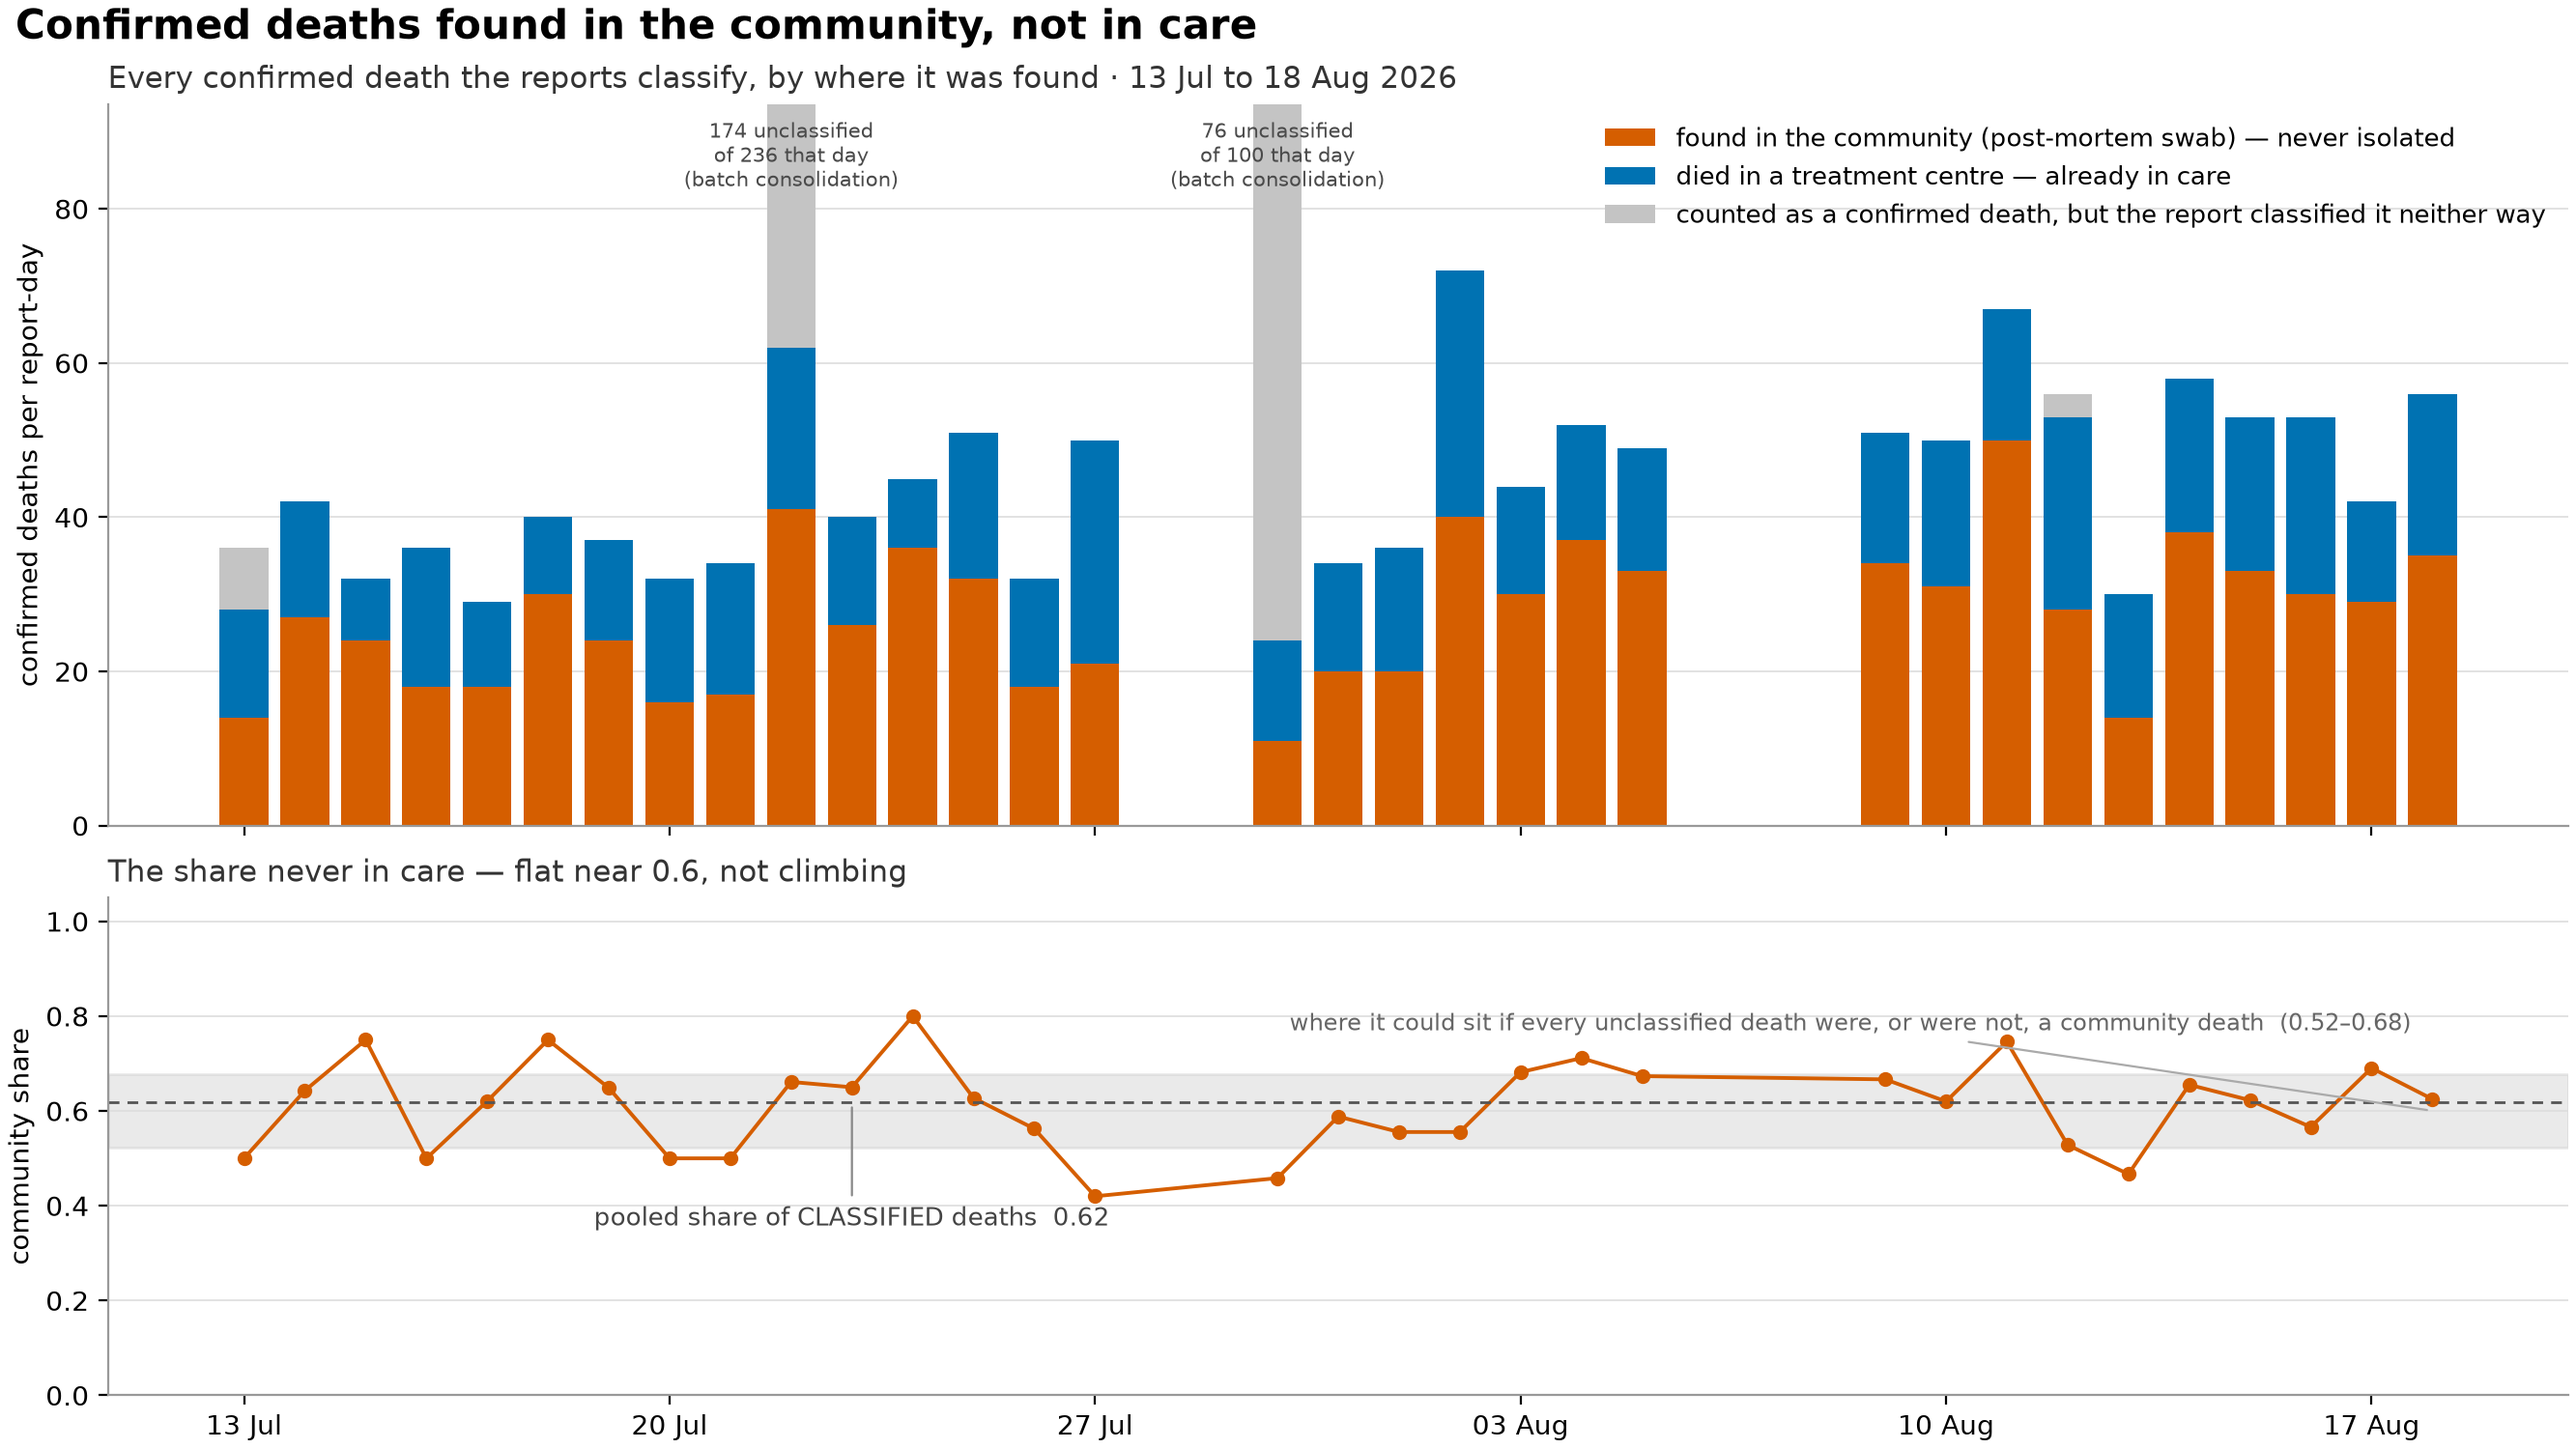
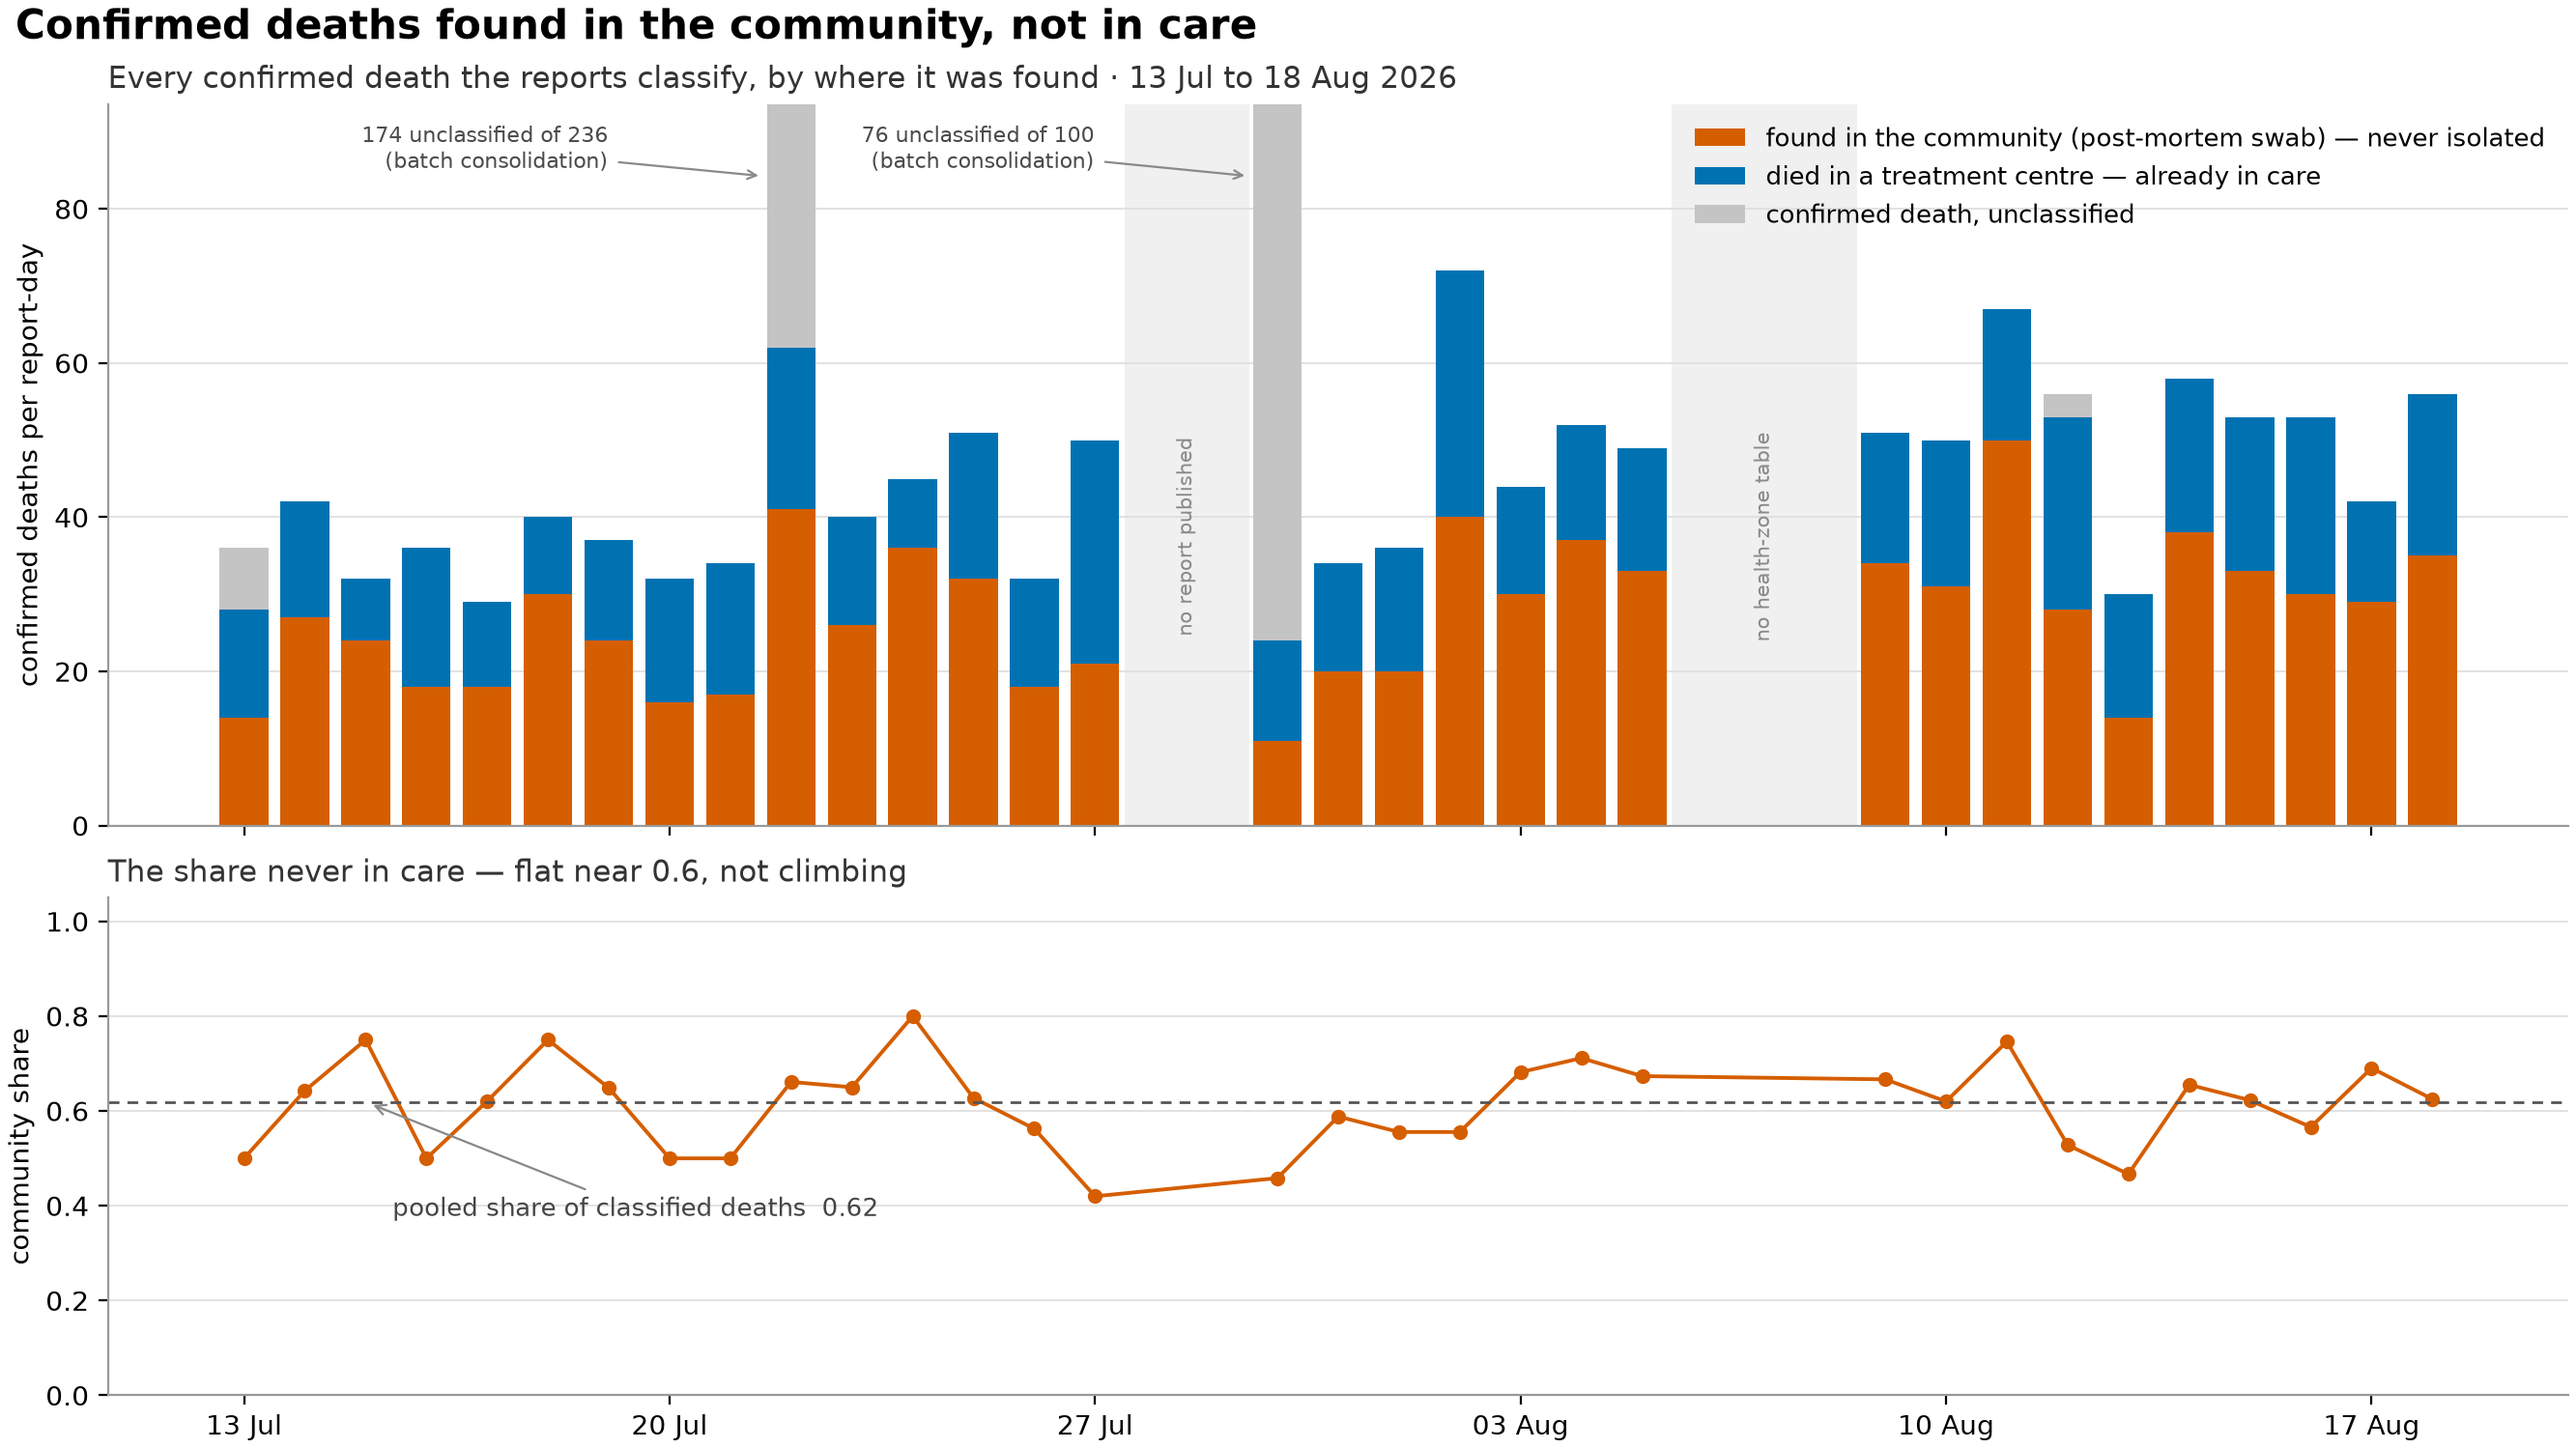
ascertainment: name the gaps, plainer labels, drop the bound band
The two gaps in the series have different causes and absence alone cannot
tell them apart, so the figure now says which is which: 28-29 July is INSP
publishing nothing, while 6-8 August is three reports (sitreps 084-086) that
were published but printed no health-zone table -- and the community /
treatment-centre split is only ever printed there.

Also:
- grey legend entry is now "confirmed death, unclassified"
- the clipped-bar labels are dodged left with a pointer to their bar
- the pooled-share label sits earlier on the axis with an arrow to the line
- the 0.52-0.68 bound band is removed. It was the share if every unclassified
  death were, or were not, a community death -- honest but hard to read at a
  glance, and the grey bars already carry that the denominator is incomplete.

Claude-Session: https://claude.ai/code/session_015tkmBJ2UNKTmshByKopqW2

diff --git a/scripts/plot_figures.py b/scripts/plot_figures.py
@@ -31,6 +31,7 @@ single-hue sequential treatment, dark to light, never three unrelated hues.
 from __future__ import annotations
 
 import argparse
+import datetime as dt
 import sys
 from pathlib import Path
 
@@ -493,9 +494,7 @@ def draw_ascertainment(inputs: dict[str, Path], out: Path) -> None:
                for a, b in zip(d["deaths_national"].to_list(), total)]
     share = [c / s for c, s in zip(comm, total)]
     pooled = sum(comm) / sum(total)
-    # What the unclassified deaths could do to that share, at the extremes.
-    all_deaths = sum(total) + sum(unclass)
-    lo, hi = sum(comm) / all_deaths, (sum(comm) + sum(unclass)) / all_deaths
+
 
     COMM, ETC = "#D55E00", "#0072B2"
     fig, (ax, sh) = plt.subplots(
@@ -507,8 +506,7 @@ def draw_ascertainment(inputs: dict[str, Path], out: Path) -> None:
     ax.bar(t, etc, width=0.8, bottom=comm, color=ETC,
            label="died in a treatment centre — already in care")
     ax.bar(t, unclass, width=0.8, bottom=[a + b for a, b in zip(comm, etc)],
-           color="#c4c4c4", label="counted as a confirmed death, but the "
-           "report classified it neither way")
+           color="#c4c4c4", label="confirmed death, unclassified")
     # TWO BACKLOG RELEASES WOULD OTHERWISE SET THE SCALE. 22 July carries 174
     # unclassified deaths and 30 July 76, against a daily norm near 5, so an
     # honest full-height axis squashes every other day into illegibility. The
@@ -517,11 +515,48 @@ def draw_ascertainment(inputs: dict[str, Path], out: Path) -> None:
     top = max(a + b for a, b in zip(comm, etc)) * 1.30
     for xi, c, e, u in zip(t, comm, etc, unclass):
         if c + e + u > top:
-            ax.annotate(f"{u} unclassified\nof {c + e + u} that day\n"
+            ax.annotate(f"{u} unclassified of {c + e + u}\n"
                         f"(batch consolidation)",
-                        xy=(xi, top), xytext=(0, -6),
-                        textcoords="offset points", ha="center", va="top",
-                        fontsize=7.5, color="#4a4a4a")
+                        xy=(xi - 0.45, top * 0.90), xytext=(-58, 10),
+                        textcoords="offset points", ha="right", va="center",
+                        fontsize=8, color="#4a4a4a",
+                        arrowprops=dict(arrowstyle="->", color="#8a8a8a",
+                                        linewidth=0.8,
+                                        shrinkA=2, shrinkB=2))
+    # THE TWO GAPS HAVE DIFFERENT CAUSES, and a reader cannot tell them apart
+    # from absence alone. 28-29 July is INSP publishing nothing; 6-8 August is
+    # three reports that were published but printed no health-zone table, and
+    # the community/treatment-centre split is only ever printed there.
+    status = pl.read_csv(inputs["zone_status"], infer_schema_length=None)
+    published = {r["date"]: r["status"] for r in status.iter_rows(named=True)}
+    have = {str(v) for v in d["time"].to_list()}
+    day = dt.timedelta(days=1)
+    cur, runs = None, []
+    span_lo, span_hi = d["time"].min(), d["time"].max()
+    probe = span_lo
+    while probe <= span_hi:
+        key = str(probe)
+        missing = key not in have
+        why = ("no report published" if key not in published
+               else "no health-zone table")
+        if missing:
+            if cur and cur[2] == why and cur[1] + day == probe:
+                cur = (cur[0], probe, why)
+            else:
+                if cur:
+                    runs.append(cur)
+                cur = (probe, probe, why)
+        probe += day
+    if cur:
+        runs.append(cur)
+    for lo_d, hi_d, why in runs:
+        mid = mdates.date2num(lo_d) + (mdates.date2num(hi_d)
+                                       - mdates.date2num(lo_d)) / 2
+        ax.axvspan(mdates.date2num(lo_d) - 0.5, mdates.date2num(hi_d) + 0.5,
+                   color="#f0f0f0", zorder=0)
+        ax.text(mid, top * 0.40, why, rotation=90, ha="center", va="center",
+                fontsize=7.5, color="#8a8a8a")
+
     ax.set_ylim(0, top)
     ax.set_axisbelow(True)          # gridlines behind the bars, not through them
     ax.set_ylabel("confirmed deaths per report-day", fontsize=10)
@@ -530,21 +565,13 @@ def draw_ascertainment(inputs: dict[str, Path], out: Path) -> None:
     ax.grid(axis="y", **GRID)
 
     sh.plot(t, share, marker="o", markersize=4.5, linewidth=1.4, color=COMM)
-    # the grey band above has a consequence: it is missing from this
-    # denominator, so show how far it could move the answer
-    sh.axhspan(lo, hi, color="#c4c4c4", alpha=0.35, zorder=0)
     sh.axhline(pooled, color="#555555", linewidth=1.0, linestyle=(0, (4, 3)))
-    sh.annotate(f"pooled share of CLASSIFIED deaths  {pooled:.2f}",
-                xy=(t[len(t) // 3], pooled), xytext=(0, -46),
-                textcoords="offset points", ha="center", fontsize=9.5,
-                color="#444444",
-                arrowprops=dict(arrowstyle="-", color="#888888", linewidth=0.8))
-    sh.annotate(f"where it could sit if every unclassified death were, or were "
-                f"not, a community death  ({lo:.2f}–{hi:.2f})",
-                xy=(t[-1], (lo + hi) / 2), xytext=(-8, 30),
-                textcoords="offset points", ha="right", fontsize=8.5,
-                color="#666666",
-                arrowprops=dict(arrowstyle="-", color="#aaaaaa", linewidth=0.8))
+    sh.annotate(f"pooled share of classified deaths  {pooled:.2f}",
+                xy=(t[2], pooled), xytext=(10, -40),
+                textcoords="offset points", ha="left", va="center",
+                fontsize=9.5, color="#444444",
+                arrowprops=dict(arrowstyle="->", color="#888888",
+                                linewidth=0.8, shrinkA=2, shrinkB=3))
     sh.set_axisbelow(True)
     sh.set_ylim(0, 1.05)
     sh.set_ylabel("community share", fontsize=10)
@@ -1002,7 +1029,9 @@ FIGURES = {
     "ascertainment": (draw_ascertainment,
                       {"split": "data/build/streams/"
                                 "community_deaths_daily_national.tsv",
-                       "deaths": "data/build/streams/deaths_daily_national.tsv"}),
+                       "deaths": "data/build/streams/deaths_daily_national.tsv",
+                       "zone_status":
+                           "data/build/series/zone_table_status.csv"}),
     "release_grid": (draw_release_grid,
                      {**{f"stream_{n}": f"data/build/streams/{n}.tsv"
                          for n, _ in RELEASE_ROWS},
